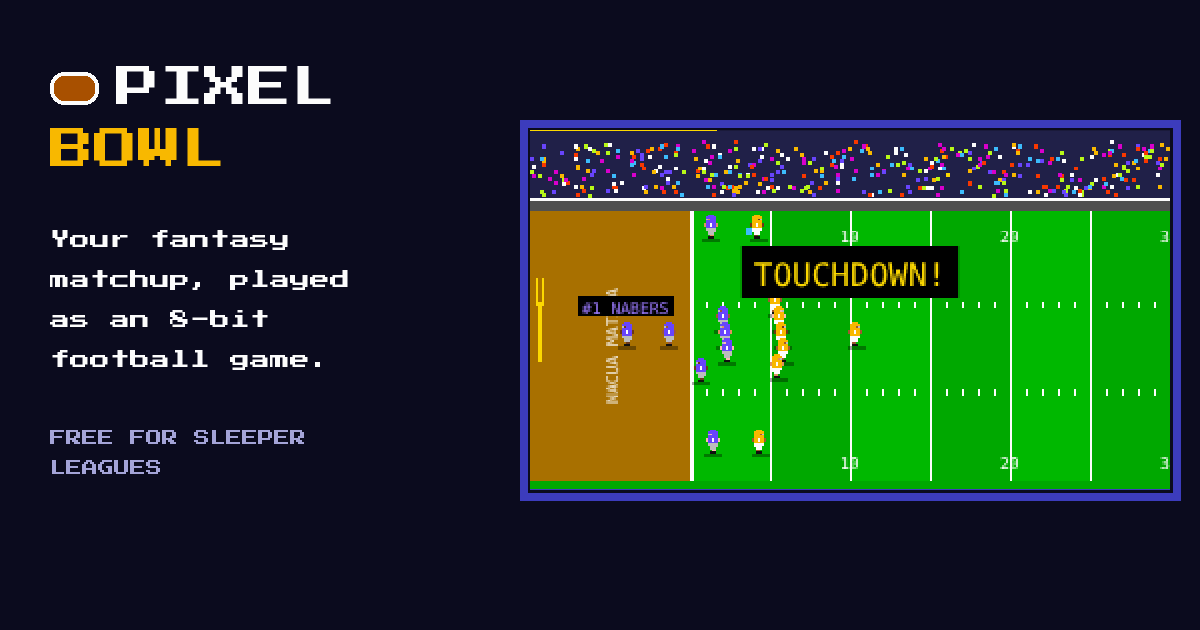
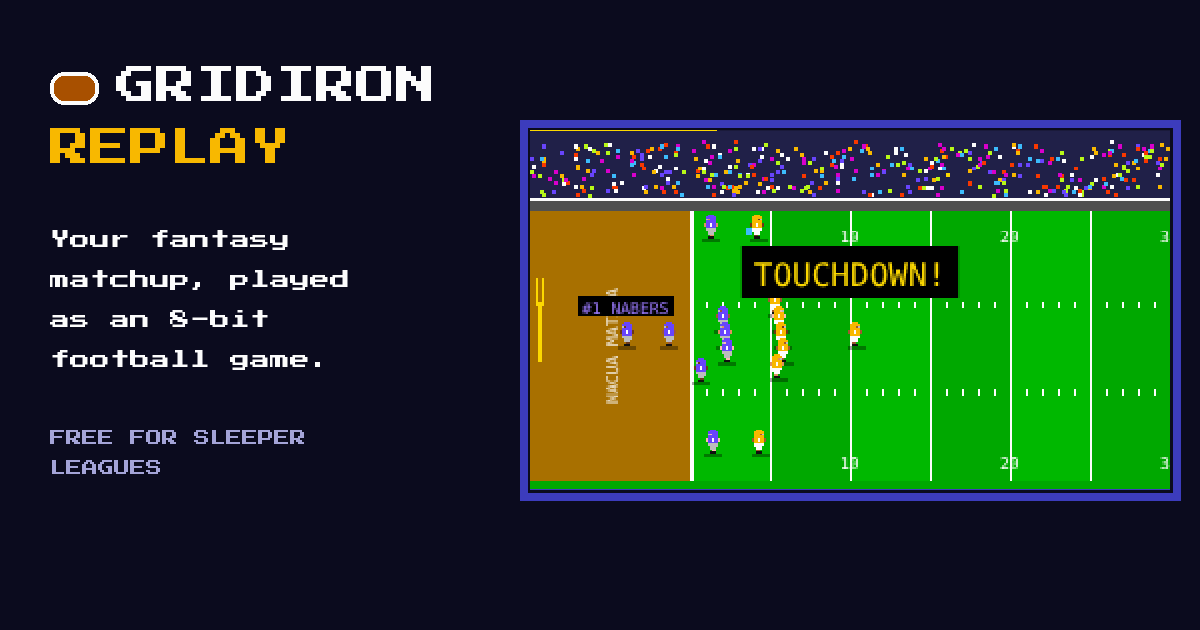
Rename site to Gridiron Replay
Claude-Session: https://claude.ai/code/session_01JDTpWa63WGBDYBAzzMTCfx

Changed region(s): [[0.0308, 0.0905, 0.37, 0.2714]]

diff --git a/src/app.js b/src/app.js
@@ -72,7 +72,7 @@ function showError(e) {
 
 // ---------- home
 function home() {
-  document.title = 'Pixel Bowl';
+  document.title = 'Gridiron Replay';
   const recent = store.get('recent', []);
   app.innerHTML = `
   <section class="hero">
@@ -123,7 +123,7 @@ async function league(id, week) {
   if (!week) week = ctx.current;
   if (!ctx.demo) { const r = store.get('recent', []).filter(x => x.id !== id); r.unshift({ id, name: ctx.L.league.name }); store.set('recent', r.slice(0, 5)); }
   const list = await weekGames(id, ctx, week);
-  document.title = `${ctx.L.league.name} · Week ${week} · Pixel Bowl`;
+  document.title = `${ctx.L.league.name} · Week ${week} · Gridiron Replay`;
   const top = gotw(list);
   const live = !ctx.demo && week === ctx.current && (() => { const g = (SCHEDULE.weeks || {})[week] || []; return g.length && Date.now() < Math.max(...g.map(x => Date.parse(x[2]))) + 3.5 * 3600e3; })();
   const ordered = top ? [top, ...list.filter(x => x !== top)] : list;
@@ -155,7 +155,7 @@ async function watch(id, week, mid) {
   const hit = list.find(x => x.m.id === mid);
   if (!hit) throw new Error('not-found');
   const { g } = hit, T = g.teams, S = g.snaps;
-  document.title = `${T.A.name} vs ${T.B.name} · Pixel Bowl`;
+  document.title = `${T.A.name} vs ${T.B.name} · Gridiron Replay`;
   app.innerHTML = `
   <a class="back" href="#/l/${encodeURIComponent(id)}/w/${week}">← ${esc(ctx.L.league.name)} · Week ${week}</a>
   <div class="cab">
@@ -240,8 +240,8 @@ async function watch(id, week, mid) {
   document.querySelectorAll('[data-m]').forEach(b => b.onclick = () => { player.setMode(b.dataset.m); document.querySelectorAll('[data-m]').forEach(x => x.setAttribute('aria-pressed', x === b)); });
   $('snd').onclick = () => { const on = !player.sound; player.enableSound(on); $('snd').setAttribute('aria-pressed', on); $('snd').textContent = on ? 'Sound on' : 'Sound off'; };
   $('share').onclick = async () => {
-    const url = location.href, text = `${T.A.name} ${g.final.A}, ${T.B.name} ${g.final.B} — watch the Pixel Bowl recap`;
-    try { if (navigator.share) { await navigator.share({ title: 'Pixel Bowl', text, url }); return; } } catch (e) { if (e && e.name === 'AbortError') return; }
+    const url = location.href, text = `${T.A.name} ${g.final.A}, ${T.B.name} ${g.final.B} — watch the Gridiron Replay recap`;
+    try { if (navigator.share) { await navigator.share({ title: 'Gridiron Replay', text, url }); return; } } catch (e) { if (e && e.name === 'AbortError') return; }
     try { await navigator.clipboard.writeText(url); toast('Link copied'); } catch (e) { prompt('Copy this link:', url); }
   };
 }

diff --git a/index.html b/index.html
@@ -3,9 +3,9 @@
 <head>
 <meta charset="utf-8">
 <meta name="viewport" content="width=device-width, initial-scale=1, viewport-fit=cover">
-<title>Pixel Bowl</title>
+<title>Gridiron Replay</title>
 <meta name="description" content="Your Sleeper fantasy matchup, played out as an 8-bit football game.">
-<meta property="og:title" content="Pixel Bowl">
+<meta property="og:title" content="Gridiron Replay">
 <meta property="og:description" content="Your fantasy matchup, played out as an 8-bit football game. Free for Sleeper leagues.">
 <meta property="og:type" content="website">
 <meta property="og:image" content="/og.png">
@@ -18,10 +18,10 @@
 <link rel="stylesheet" href="/src/style.css">
 </head>
 <body>
-<header class="top"><a href="#/" class="logo" aria-label="Pixel Bowl home"><span class="ball"></span>PIXEL BOWL</a></header>
+<header class="top"><a href="#/" class="logo" aria-label="Gridiron Replay home"><span class="ball"></span>GRIDIRON REPLAY</a></header>
 <main id="app" aria-live="polite"><p class="loading">Loading…</p></main>
 <footer class="foot">
-  <p>Pixel Bowl turns fantasy results into a fictional game. Not affiliated with Sleeper, the NFL or any team. Player names and stats are used for fantasy recaps only.</p>
+  <p>Gridiron Replay turns fantasy results into a fictional game. Not affiliated with Sleeper, the NFL or any team. Player names and stats are used for fantasy recaps only.</p>
   <p>Stats via <a href="https://github.com/nflverse" target="_blank" rel="noopener">nflverse</a>. League data via the public Sleeper API.</p>
 </footer>
 <script type="module" src="/src/app.js"></script>

diff --git a/src/engine.js b/src/engine.js
@@ -1,4 +1,4 @@
-// Pixel Bowl game engine: turns one fantasy matchup into an original football game.
+// Gridiron Replay game engine: turns one fantasy matchup into an original football game.
 //
 // What is guaranteed:
 //   1. Final score = each team's fantasy total / DIV, rounded (fantasy winner always wins).
@@ -397,7 +397,7 @@ function commentary(snaps, T, story, rng) {
       const b = bench.find(y => y.team !== L) || bench[0];
       if (b) line += ` And somewhere on the ${T[b.team].name} bench, ${b.player}'s ${b.pts.toFixed(1)} points watched the whole thing${b.flips ? '. That would have won it' : ''}.`;
     } else if (x.kind === 'kickoff' && i === 0) {
-      line = `Welcome to Pixel Bowl! ${T.A.name} against ${T.B.name}. ${mvp ? `Keep an eye on ${mvp.player}.` : ''}`;
+      line = `Welcome to Gridiron Replay! ${T.A.name} against ${T.B.name}. ${mvp ? `Keep an eye on ${mvp.player}.` : ''}`;
     }
     if (line) calls[i] = line;
   });

diff --git a/src/style.css b/src/style.css
@@ -1,4 +1,4 @@
-/* Pixel Bowl — arcade cabinet look. Deliberately single (dark) theme. */
+/* Gridiron Replay — arcade cabinet look. Deliberately single (dark) theme. */
 :root{
   --bg:#0b0b1e; --panel:#16163a; --panel2:#1e1e4a; --edge:#3c3cbc; --ink:#fcfcfc; --muted:#a4a4d8; --dim:#6c6cae;
   --a:#f8b800; --b:#9878f8; --hi:#f83800; --gold:#fcd800; --ok:#b8f818;

diff --git a/README.md b/README.md
@@ -1,4 +1,4 @@
-# Pixel Bowl
+# Gridiron Replay
 
 Your Sleeper fantasy matchup, played as an 8-bit football game.
 
